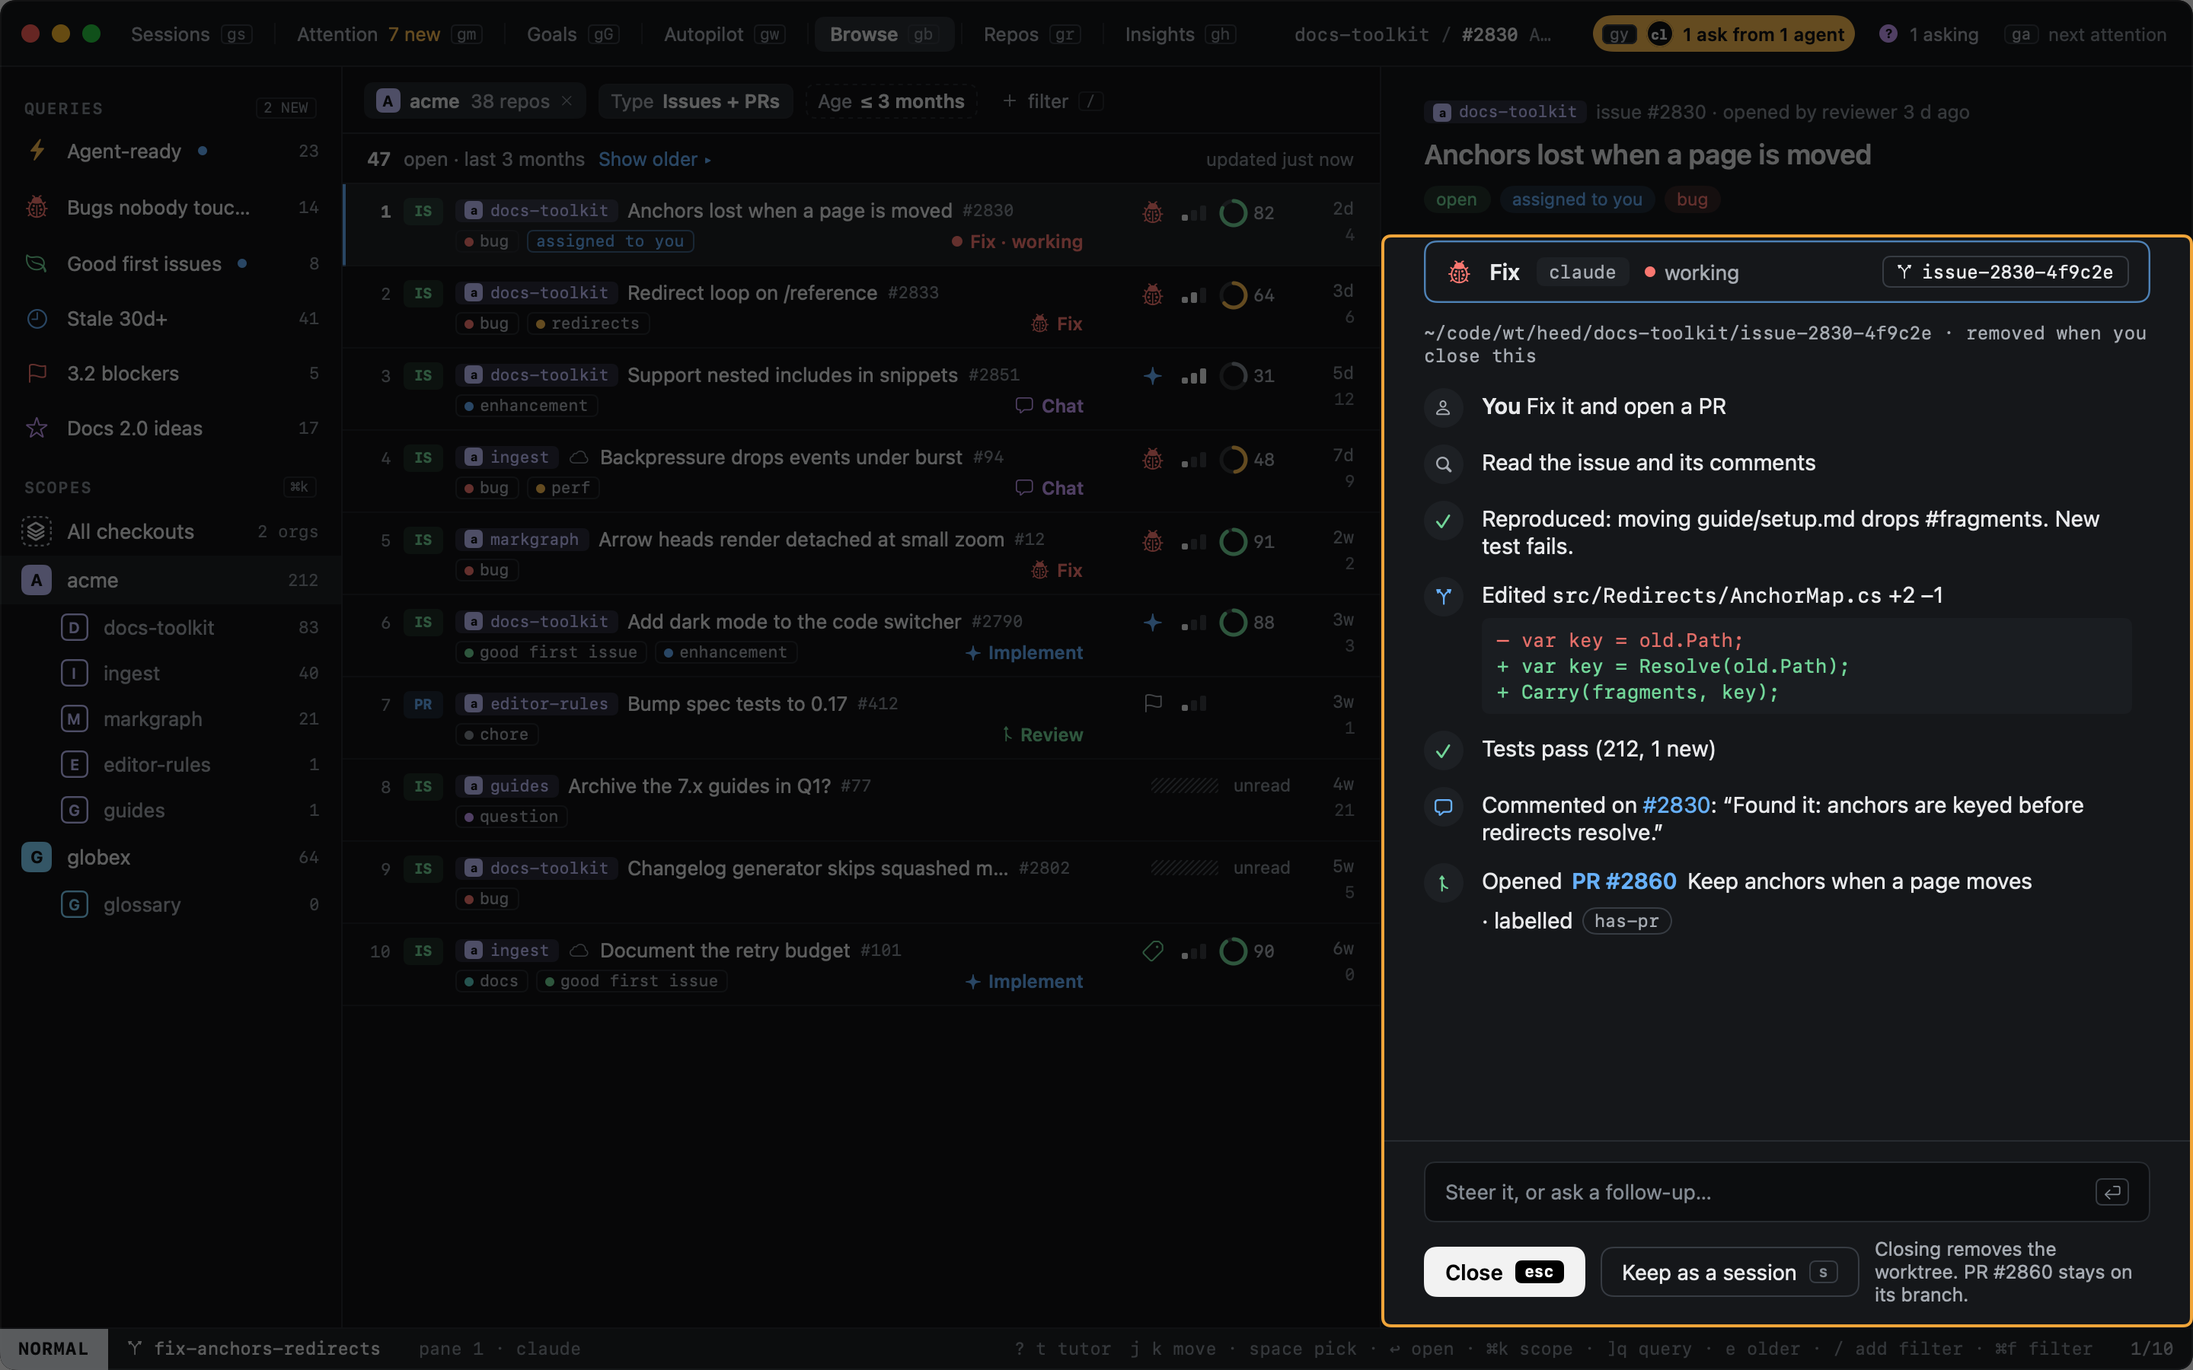
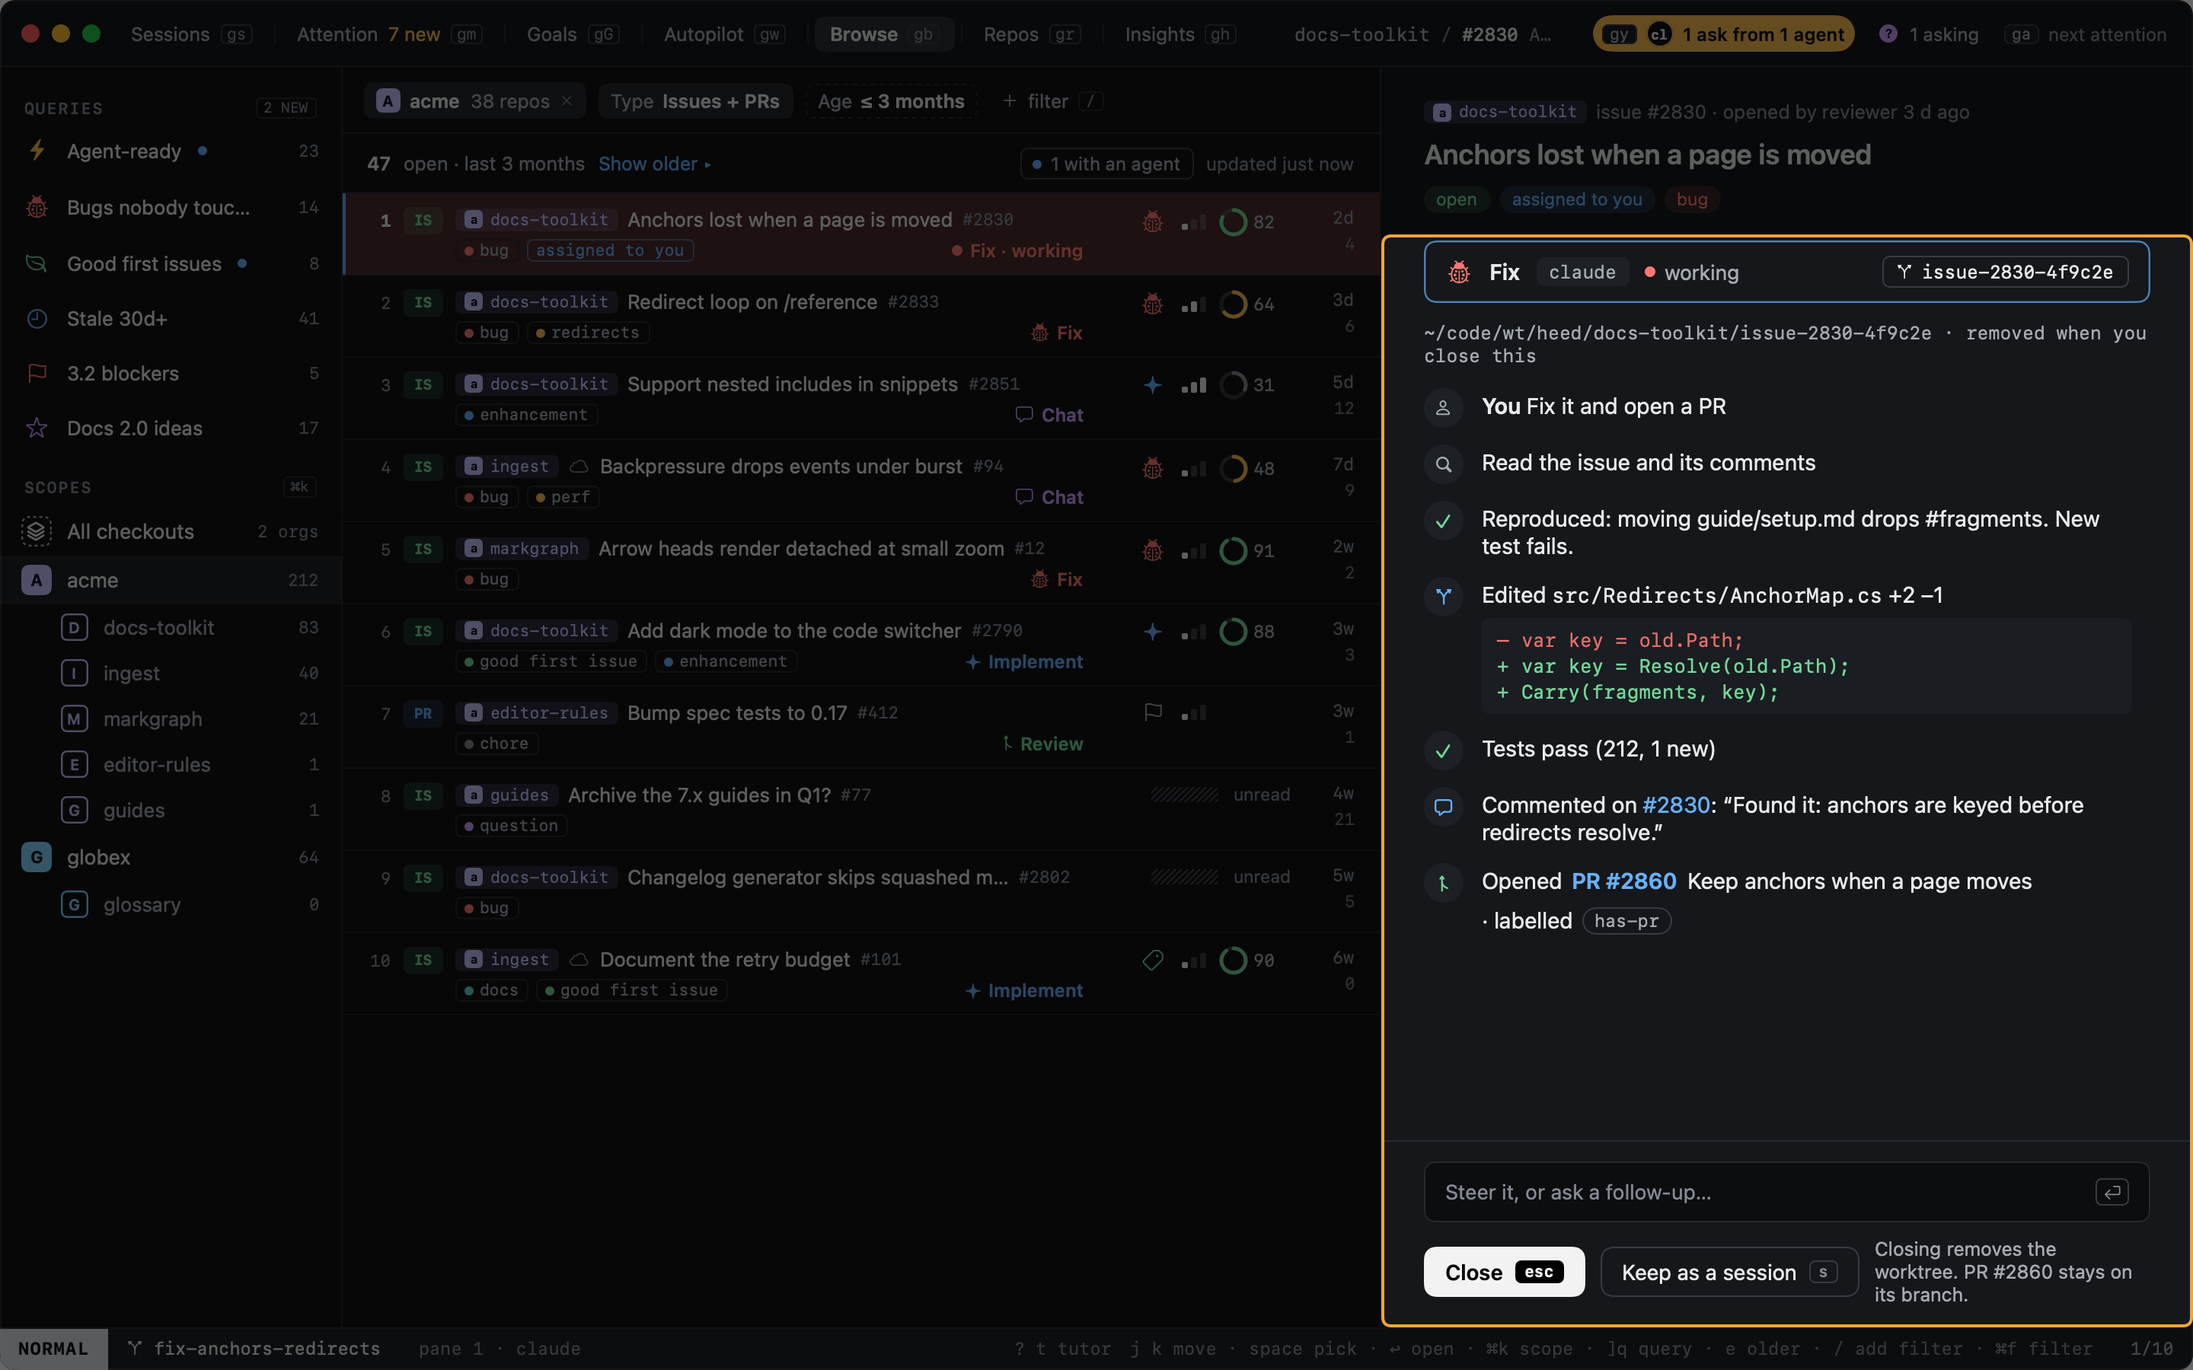
Browse: rows with an agent run are tinted, and a toggle narrows the list to them

diff --git a/Sources/HeedApp/Browse/BrowseModel.swift b/Sources/HeedApp/Browse/BrowseModel.swift
@@ -30,7 +30,15 @@ final class BrowseModel {
     let runs = BrowseRunsModel()
     var items: [BrowseItem] = []
     /// The items the query keeps, in the sort order: what the list draws.
-    private(set) var rows: [BrowseItem] = []
+    private(set) var allRows: [BrowseItem] = []
+    /// Only the items with an agent run on them (`agentOnly`): the toggle at the right of the count. Off whenever no
+    /// run is left, so the list never shows nothing for a filter that has gone.
+    var agentOnly = false
+    /// What the list draws: `allRows`, or just those with a run on them.
+    var rows: [BrowseItem] { showsAgentOnly ? allRows.filter { runs.current(for: $0.id) != nil } : allRows }
+    /// How many of the rows have a run on them.
+    var agentCount: Int { allRows.count { runs.current(for: $0.id) != nil } }
+    var showsAgentOnly: Bool { agentOnly && agentCount > 0 }
     var queries: [SavedQuery] = []
     /// When each saved query was last run, for the quick jump's order: kept per Mac, not in the fake world.
     private(set) var queryUsed: [String: Date] = [:]
@@ -223,9 +231,9 @@ final class BrowseModel {
     /// arriving or a bulk action must not reorder the list under the cursor.
     func refilter(now: Date = Clock.now) {
         let next = BrowseFetch.refusal(for: query, checkouts: checkouts) == nil ? narrowed(query, now: now) : []
-        guard held != nil else { return rows = next }
-        let place = Dictionary(rows.enumerated().map { ($1.id, $0) }) { first, _ in first }
-        rows = next.enumerated().sorted {
+        guard held != nil else { return allRows = next }
+        let place = Dictionary(allRows.enumerated().map { ($1.id, $0) }) { first, _ in first }
+        allRows = next.enumerated().sorted {
             (place[$0.element.id] ?? Int.max, $0.offset) < (place[$1.element.id] ?? Int.max, $1.offset)
         }.map(\.element)
         recomputePending(now: now)
@@ -466,7 +474,7 @@ final class BrowseModel {
         load = .idle
         silent = false
         fresh = []
-        let gone = BrowseRefreshApply.gone(shown: rows, fetched: result.items, capped: result.capped)
+        let gone = BrowseRefreshApply.gone(shown: allRows, fetched: result.items, capped: result.capped)
         let store = store
         let kept = result.items
         Task { try? await store?.record(kept, now: Date()) }
@@ -495,7 +503,7 @@ final class BrowseModel {
 
     /// An answer under a held item: the rows on screen take their new fields at once, where they are; the rest waits.
     private func hold(_ fetched: [BrowseItem], gone: Set<String>) {
-        let shown = Set(rows.map(\.id))
+        let shown = Set(allRows.map(\.id))
         var byID = Dictionary(items.map { ($0.id, $0) }) { _, last in last }
         for item in fetched where shown.contains(item.id) {
             byID[item.id] = item
@@ -503,7 +511,7 @@ final class BrowseModel {
         items = Array(byID.values)
         held = (fetched, gone)
         let latest = Dictionary(fetched.map { ($0.id, $0) }) { _, last in last }
-        rows = rows.map { latest[$0.id] ?? $0 }
+        allRows = allRows.map { latest[$0.id] ?? $0 }
         recomputePending()
     }
 
@@ -517,8 +525,8 @@ final class BrowseModel {
         let target = narrowed(query, now: now, from: byID.values.filter { !held.gone.contains($0.id) })
         let latest = Dictionary(held.fetched.map { ($0.id, $0) }) { _, last in last }
         // Rows on screen take their fields now, so what is left is only what moves, comes or goes.
-        rows = rows.map { latest[$0.id] ?? $0 }
-        let diff = BrowseDiff.between(current: rows, fetched: target, order: sort)
+        allRows = allRows.map { latest[$0.id] ?? $0 }
+        let diff = BrowseDiff.between(current: allRows, fetched: target, order: sort)
         if diff.isStructural {
             pending = diff
         } else {
@@ -537,11 +545,11 @@ final class BrowseModel {
         items = byID.values.filter { !gone.contains($0.id) }
         forget(gone)
         let target = narrowed(query, now: Clock.now)
-        let diff = BrowseDiff.between(current: rows, fetched: target, order: sort)
+        let diff = BrowseDiff.between(current: allRows, fetched: target, order: sort)
         let outcome = BrowseRefreshApply.apply(
-            diff, to: rows, cursorID: cursor.id, cursorIndex: cursor.index, picks: cursor.picks
+            diff, to: allRows, cursorID: cursor.id, cursorIndex: cursor.index, picks: cursor.picks
         )
-        rows = outcome.rows
+        allRows = outcome.rows
         fresh = outcome.fresh
         return outcome
     }

diff --git a/Sources/HeedApp/Views/BrowseView.swift b/Sources/HeedApp/Views/BrowseView.swift
@@ -590,6 +590,7 @@ struct BrowseCount: View {
                     .tap { model.perform(CommandInvocation(name: "browse.older")) }
             }
             Spacer()
+            if browse.agentCount > 0 { agentToggle(browse) }
             // A refresh on its own is quiet: no "asking GitHub", only how old the list is.
             if browse.refusal != nil {
                 EmptyView()
@@ -606,6 +607,24 @@ struct BrowseCount: View {
         }
         .padding(.horizontal, 16).padding(.vertical, 9)
         .overlay(alignment: .bottom) { Theme.line.frame(height: 1) }
+    }
+}
+
+extension BrowseCount {
+    /// `● 2 with an agent`: shows only while an agent is on some item, and narrows the list to those items.
+    fileprivate func agentToggle(_ browse: BrowseModel) -> some View {
+        let on = browse.showsAgentOnly
+        return HStack(spacing: 6) {
+            Circle().fill(Theme.busy).frame(width: 6, height: 6)
+            Text("\(browse.agentCount) with an agent").font(Theme.ui(12, weight: on ? .semibold : .regular))
+        }
+        .foregroundStyle(on ? Theme.fg : Theme.fg2)
+        .padding(.horizontal, 8).padding(.vertical, 3)
+        .background(RoundedRectangle(cornerRadius: 5).fill(on ? Theme.busy.opacity(0.22) : Color.clear))
+        .overlay(RoundedRectangle(cornerRadius: 5).strokeBorder(on ? Theme.busy : Theme.keyCapBorder))
+        .contentShape(Rectangle())
+        .help(on ? "Show every item again" : "Show only the items with an agent on them")
+        .tap { model.toggleBrowseAgentOnly() }
     }
 }
 
@@ -747,8 +766,23 @@ struct BrowseRow: View {
         .padding(.leading, 8).padding(.trailing, 16).padding(.vertical, 9)
         .overlay(alignment: .leading) { if index == cursor { Theme.busy.frame(width: 2) } }
         .overlay(alignment: .topLeading) { BrowseFreshPip(id: item.id) }
-        .background(isPicked ? Theme.block.opacity(0.16) : index == cursor ? Theme.bg3 : .clear)
+        .background(rowBackground)
+        .overlay(alignment: .leading) {
+            // An agent is on it: a bar in the run's colour, stronger on the row you are on.
+            if let run = model.browse.runs.current(for: item.id), index != cursor {
+                run.effectiveVerb.tint.frame(width: 2)
+            }
+        }
         .overlay(alignment: .bottom) { Theme.line.opacity(0.6).frame(height: 1) }
+    }
+
+    /// Picked, then an agent on it (tinted by its verb, stronger under the cursor), then the cursor, else nothing.
+    private var rowBackground: Color {
+        if isPicked { return Theme.block.opacity(0.16) }
+        if let run = model.browse.runs.current(for: item.id) {
+            return run.effectiveVerb.tint.opacity(index == cursor ? 0.24 : 0.12)
+        }
+        return index == cursor ? Theme.bg3 : .clear
     }
 }
 

diff --git a/Sources/HeedCore/Keys/DefaultKeys.swift b/Sources/HeedCore/Keys/DefaultKeys.swift
@@ -393,7 +393,7 @@ public enum DefaultKeys {
     /// step for the item, Y does it and turns it on for the repo from now on, . proposes the next other step.
     /// Browse: the rail is ⌘K and `]o` `[o` (scopes) and `]q` `[q` (queries); the list is the usual j k, space, ↩ and
     /// /. U has heed read the items, F I C R send an agent at the one under the cursor (Fix, Implement, Chat, Review),
-    /// t tells one in your own words; N renames the saved query you are on.
+    /// t tells one in your own words; w narrows the list to the items with an agent on them; N renames the saved query you are on.
     static let browse: [(String, String)] = [
         ("<Space>", "select.toggle"), ("<CR>", "browse.open"), ("<D-k>", "browse.scope"), ("]o", "browse.scope.next"),
         ("[o", "browse.scope.prev"), ("]q", "browse.query.next"), ("[q", "browse.query.prev"),
@@ -401,7 +401,7 @@ public enum DefaultKeys {
         ("/", "browse.filter.add"), ("x", "browse.filter.remove"), ("N", "browse.query.rename"),
         ("D", "browse.query.delete"), ("]Q", "browse.query.down"), ("[Q", "browse.query.up"),
         ("<D-f>", "session.filter"), ("U", "browse.read"), ("F", "browse.fix"), ("I", "browse.implement"),
-        ("C", "browse.chat"), ("R", "browse.review"), ("t", "browse.tell"),
+        ("C", "browse.chat"), ("R", "browse.review"), ("t", "browse.tell"), ("w", "browse.agents"),
         // An agent run in the reader: esc closes it (and removes its worktree), s keeps it as a session, i steers it
         // (↩ too); a drafted review is posted with P, changed with E or thrown away with X; the clone card clones
         // with ↩, only clones with c, changes the folder with d and is dismissed with esc.

diff --git a/Sources/HeedApp/Model/AppModel+Browse.swift b/Sources/HeedApp/Model/AppModel+Browse.swift
@@ -22,6 +22,13 @@ extension AppModel {
         return rows.indices.contains(index) ? rows[index] : nil
     }
 
+    /// The toggle at the right of the count: only the items with an agent run on them, and back. The cursor goes to
+    /// the top, since the rows it pointed into change.
+    func toggleBrowseAgentOnly() {
+        browse.agentOnly = !browse.showsAgentOnly
+        itemCursor[.browse] = 0
+    }
+
     /// Whether heed has a checkout of the repo on this Mac (the fake world's Mac has its own).
     func browseIsCloned(_ repo: Repo) -> Bool {
         !RepoPlace.of(repo, in: browseRecords).clones
@@ -189,6 +196,7 @@ extension AppModel {
         case "browse.implement": browseVerb(.implement)
         case "browse.chat": browseVerb(.chat)
         case "browse.review": browseVerb(.review)
+        case "browse.agents": toggleBrowseAgentOnly()
         case "browse.tell": browseTellRun()
         case "browse.run.close": browseEscape()
         case "browse.run.keep": keepBrowseRun()

diff --git a/Sources/HeedApp/Model/AppModel.swift b/Sources/HeedApp/Model/AppModel.swift
@@ -3332,7 +3332,8 @@ final class AppModel {
              "browse.query.next", "browse.query.prev", "browse.query.save", "browse.older", "browse.refresh",
              "browse.sort", "browse.filter.add", "browse.filter.remove", "browse.query.rename", "browse.query.delete",
              "browse.query.up", "browse.query.down", "browse.view.new", "browse.read", "browse.fix", "browse.implement",
-             "browse.chat", "browse.review", "browse.tell", "browse.run.close", "browse.run.keep", "browse.run.steer",
+             "browse.chat", "browse.review", "browse.tell", "browse.agents", "browse.run.close", "browse.run.keep",
+             "browse.run.steer",
              "browse.run.review.post", "browse.run.review.edit", "browse.run.review.discard", "browse.clone.go",
              "browse.clone.only", "browse.clone.folder", "browse.select.all", "browse.bulk.session",
              "browse.bulk.goal", "browse.bulk.each", "browse.bulk.label", "browse.bulk.assign", "browse.bulk.comment",

diff --git a/Sources/HeedCore/Keys/MenuBar.swift b/Sources/HeedCore/Keys/MenuBar.swift
@@ -69,6 +69,7 @@ public enum MenuBar {
         "browse.chat": "the Chat button in Browse's reader, and its key in Browse",
         "browse.review": "the Review button in Browse's reader, and its key in Browse",
         "browse.tell": "the line under the buttons in Browse's reader, and its key in Browse",
+        "browse.agents": "the “N with an agent” toggle at the right of Browse's count, and its key in Browse",
         "browse.run.close": "the run's Close button in Browse's reader, and esc in Browse",
         "browse.run.keep": "the run's Keep as a session button in Browse's reader, and its key in Browse",
         "browse.run.steer": "the run's steer line in Browse's reader, and its key in Browse",

diff --git a/Sources/HeedCore/Keys/Commands.swift b/Sources/HeedCore/Keys/Commands.swift
@@ -989,6 +989,7 @@ public enum Commands {
             "Browse: review the pull request with an agent; nothing is posted without you",
             .selection
         ),
+        .init("browse.agents", "Browse: only the items with an agent on them, and back (shown while there are any)", .selection),
         .init("browse.tell", "Browse: tell an agent what to do with the item, in your own words", .selection),
         .init(
             "browse.run.close",

diff --git a/docs/github/browse.md b/docs/github/browse.md
@@ -208,6 +208,7 @@ A button that does not fit is dashed and says why.
 | `C` Chat | Asks questions, finds the cause, drafts a reply. Edits nothing |
 | `R` Review | Reads the diff, runs the tests and drafts a review for you |
 | `t` | Tell an agent in your own words what to do |
+| `w` | Only the items with an agent on them, and back |
 
 **What heed suggests:**
 
@@ -231,6 +232,10 @@ Implement never fits a PR, and Review is off on your own PR. An agent action wor
 shows the feed: what it read, edited (with the diff), ran, tested, commented, pushed and opened. Closing the run
 (`⎋`) removes the worktree and its local branch. A branch it pushed stays on GitHub. If commits were never pushed,
 heed says so as it closes.
+
+**Which items have an agent.** A row with a run on it is tinted in the run's colour (stronger under the cursor) and
+says what it is doing (*Fix · working*). While there is any, a *● N with an agent* toggle appears at the right of the
+count (`w`) and narrows the list to those items. It goes away with the last run.
 
 **Clone first.** When the repo is not on this Mac, the run opens with a card: `↩` clones and starts, `c` only clones,
 `d` picks the folder, `⎋` is not now.
@@ -355,6 +360,7 @@ Where you are, what you picked and the query survive a resize.
 | `U` | `browse.read` | heed reads the item or the picked items |
 | `F` `I` `C` `R` | `browse.fix` `browse.implement` `browse.chat` `browse.review` | Fix, Implement, Chat, Review |
 | `t` | `browse.tell` | Tell an agent what to do, in your words |
+| `w` | `browse.agents` | Only the items with an agent on them, and back |
 | `s` | `browse.run.keep` | Keep the run as a session |
 | `i` | `browse.run.steer` | Steer the run |
 | `⎋` | `browse.run.close` | Close the run and remove its worktree; with items picked, clear them; on a pushed reader, go back |

diff --git a/docs/keyboard/reference.md b/docs/keyboard/reference.md
@@ -429,6 +429,7 @@ This page is generated from the code (`mise run shots`).
 | `browse.implement` | `I` (browse), `I` (browsebulk) | Browse: work on the item with an agent: build it with tests, open a PR |
 | `browse.chat` | `C` (browse), `C` (browsebulk) | Browse: chat about the item with an agent, no edits |
 | `browse.review` | `R` (browse), `R` (browsebulk) | Browse: review the pull request with an agent; nothing is posted without you |
+| `browse.agents` | `w` (browse), `w` (browsebulk) | Browse: only the items with an agent on them, and back (shown while there are any) |
 | `browse.tell` | `t` (browse), `t` (browsebulk) | Browse: tell an agent what to do with the item, in your own words |
 | `browse.run.close` | `<Esc>` (browse), `<Esc>` (browsebulk) | Browse: close the agent run under the cursor and remove its temporary worktree (a branch it pushed stays); with items picked, clear the picks; on a pushed reader, go back to the list |
 | `browse.run.keep` | `s` (browse) | Browse: keep the agent run as a session: its worktree moves under heed's usual naming and a session opens in it |
